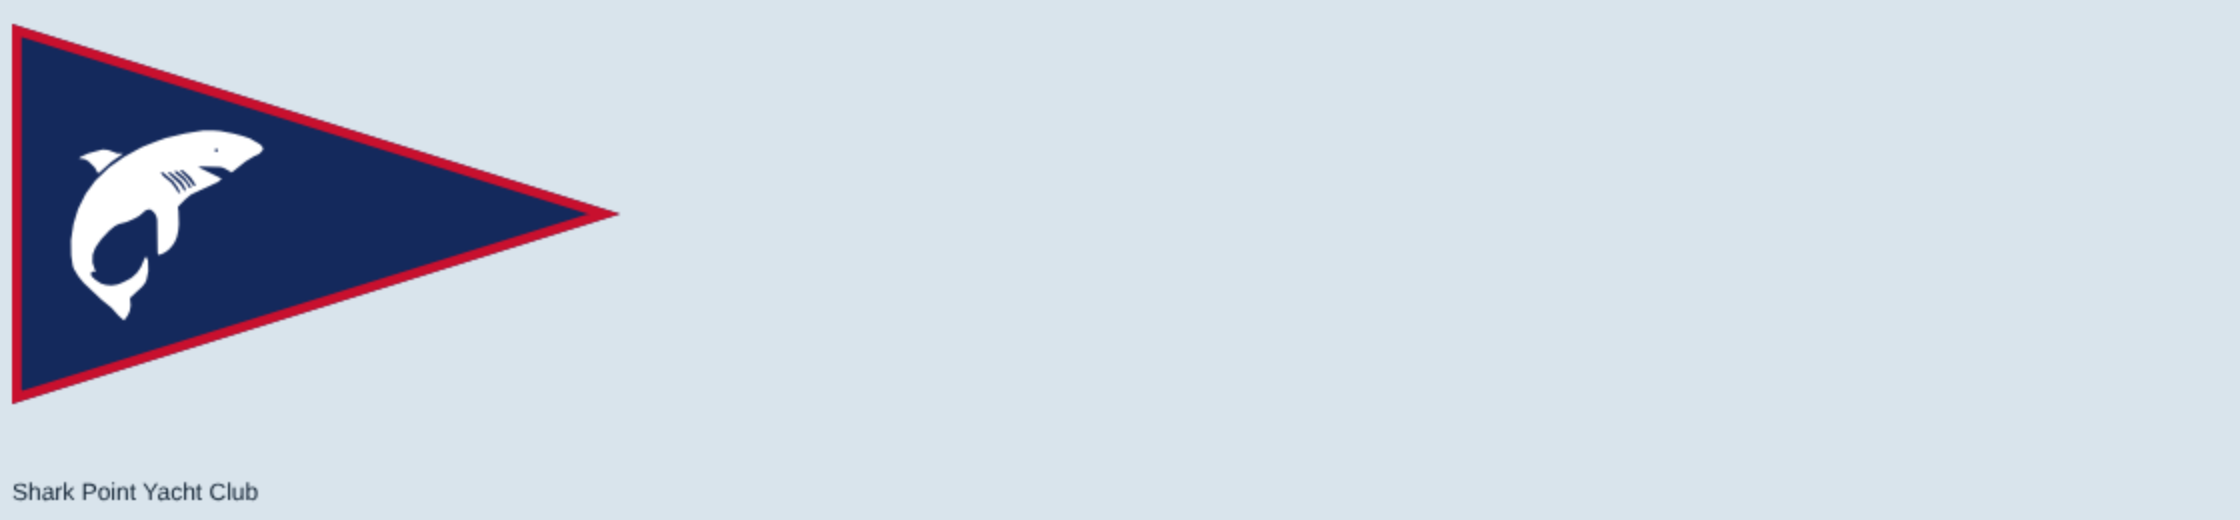
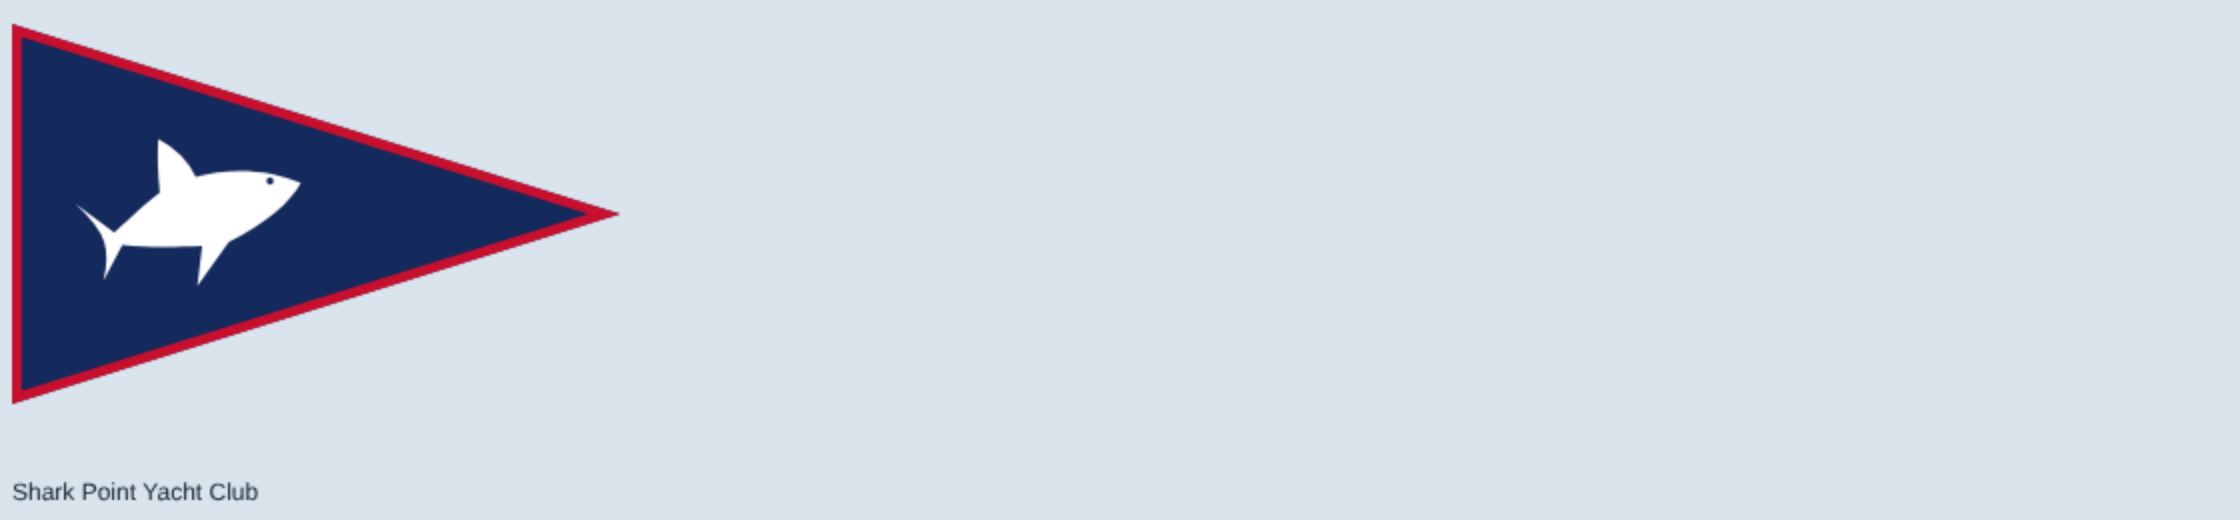
Burgees: Shark Point, a new shark drawn here instead of traced from the Tiburon seal
Claude-Session: https://claude.ai/code/session_012Uu5QjYRsEpBxuz7xgHWhs

Changed region(s): [[0.0312, 0.2462, 0.1562, 0.6154]]

diff --git a/src/render/burgeeArt.ts b/src/render/burgeeArt.ts
@@ -59,15 +59,19 @@ function bell(g: G, cx: number, cy: number, h: number, rot: number, c: string): 
   g.restore();
 }
 
-/** A shark, traced from the owner's reference image (unit points, shark height 1): the body, and the dorsal fin as its own piece; the eye, the gill slits and the mouth are holes, so the field shows through. */
-const SHARK_W = 1.01083;
-const SHARK: P[][][] = [
-  [[[0.6955, 0], [0.7497, 0], [0.7846, 0.0036], [0.8532, 0.0156], [0.9037, 0.0289], [0.9422, 0.0433], [0.9964, 0.0734], [1.0108, 0.0915], [1.0096, 0.1023], [0.9904, 0.1239], [0.9615, 0.1372], [0.9182, 0.1637], [0.846, 0.2214], [0.8051, 0.1974], [0.7858, 0.1925], [0.6871, 0.1901], [0.6691, 0.1937], [0.7918, 0.2539], [0.7918, 0.2563], [0.7738, 0.2708], [0.6318, 0.3381], [0.6005, 0.3634], [0.5644, 0.3995], [0.562, 0.4055], [0.5656, 0.4224], [0.568, 0.4934], [0.5644, 0.5295], [0.5572, 0.5608], [0.5463, 0.5872], [0.5319, 0.6089], [0.5126, 0.6294], [0.4934, 0.6438], [0.4789, 0.651], [0.4585, 0.6558], [0.4561, 0.6414], [0.4537, 0.4681], [0.4477, 0.4489], [0.4392, 0.4344], [0.426, 0.4212], [0.4176, 0.4176], [0.4055, 0.4164], [0.3923, 0.4212], [0.3586, 0.4513], [0.3345, 0.4645], [0.2936, 0.4813], [0.2527, 0.4934], [0.231, 0.5042], [0.2022, 0.5271], [0.16, 0.5716], [0.1288, 0.6161], [0.1143, 0.6534], [0.1131, 0.6943], [0.13, 0.7461], [0.1131, 0.7437], [0.1035, 0.7533], [0.1095, 0.7677], [0.13, 0.7882], [0.1576, 0.8051], [0.1841, 0.8135], [0.2142, 0.8159], [0.2455, 0.8111], [0.278, 0.799], [0.3177, 0.7762], [0.3466, 0.7497], [0.367, 0.7208], [0.3887, 0.6727], [0.3959, 0.6643], [0.4055, 0.6883], [0.4067, 0.7425], [0.3971, 0.7882], [0.3899, 0.8026], [0.3755, 0.8207], [0.3105, 0.8821], [0.3141, 0.9218], [0.3093, 0.9495], [0.2984, 0.9747], [0.2792, 1], [0.2491, 0.9747], [0.2142, 0.9338], [0.1625, 0.8917], [0.0674, 0.8026], [0.0373, 0.7653], [0.0156, 0.7304], [0.0096, 0.7124], [0.0012, 0.6582], [0, 0.58], [0.0132, 0.4922], [0.0373, 0.414], [0.0782, 0.3333], [0.1288, 0.2647], [0.1998, 0.1961], [0.278, 0.1396], [0.3742, 0.0878], [0.4477, 0.0578], [0.4994, 0.0409], [0.5993, 0.0156]], [[0.7629, 0.0963], [0.7665, 0.0963], [0.775, 0.1059], [0.7665, 0.1131], [0.7569, 0.1083], [0.7569, 0.1023]], [[0.58, 0.2094], [0.5848, 0.2094], [0.5981, 0.2178], [0.6306, 0.2491], [0.6546, 0.2852], [0.6546, 0.2888], [0.651, 0.2924], [0.6462, 0.2924], [0.6438, 0.29], [0.6101, 0.2467], [0.5752, 0.2142]], [[0.5511, 0.2118], [0.5692, 0.2238], [0.5981, 0.2491], [0.6306, 0.2936], [0.6318, 0.3008], [0.6294, 0.3032], [0.6245, 0.3032], [0.6173, 0.296], [0.6089, 0.2804], [0.5897, 0.2575], [0.5487, 0.225], [0.5475, 0.2154]], [[0.5187, 0.219], [0.5343, 0.2286], [0.5788, 0.2671], [0.5897, 0.2816], [0.6029, 0.3069], [0.6029, 0.3177], [0.5969, 0.3165], [0.5933, 0.3129], [0.586, 0.2996], [0.5728, 0.2828], [0.5138, 0.2274], [0.5126, 0.2226]], [[0.4765, 0.2214], [0.485, 0.2226], [0.5379, 0.2671], [0.5608, 0.2972], [0.5764, 0.3285], [0.568, 0.3285], [0.5644, 0.3261], [0.5475, 0.2996], [0.5271, 0.2732], [0.4886, 0.2419], [0.4741, 0.2274], [0.4729, 0.2238]]],
-  [[[0.1661, 0.1011], [0.1949, 0.1023], [0.2443, 0.1203], [0.272, 0.1215], [0.272, 0.1239], [0.2154, 0.1637], [0.1468, 0.2238], [0.1408, 0.2238], [0.1252, 0.1961], [0.0903, 0.1613], [0.0686, 0.1516], [0.0421, 0.1468], [0.0493, 0.1396], [0.089, 0.1215]]],
-];
-function shark(g: G, cx: number, cy: number, h: number, c: string): void {
-  g.save(); g.translate(cx - SHARK_W * h / 2, cy - h / 2); g.scale(h, h); g.fillStyle = c;
-  for (const rings of SHARK) { g.beginPath(); for (const ring of rings) { ring.forEach(([x, y], i) => (i ? g.lineTo(x, y) : g.moveTo(x, y))); g.closePath(); } g.fill('evenodd'); }
+/** A shark, drawn here (not traced from anyone's seal): a great white seen from the side, nose up to the right, length `len`
+ *  about the center (cx, cy). One bold white silhouette: blunt snout, high dorsal fin, one pectoral fin, a crescent tail. */
+function shark(g: G, cx: number, cy: number, len: number, c: string, eye: string): void {
+  g.save(); g.translate(cx, cy); g.rotate(-0.3); g.scale(len, len); g.translate(-0.46, 0); g.fillStyle = c;
+  g.beginPath(); g.moveTo(1.0, 0.01);
+  g.bezierCurveTo(0.88, -0.1, 0.68, -0.17, 0.52, -0.17);
+  g.quadraticCurveTo(0.5, -0.3, 0.4, -0.4); g.quadraticCurveTo(0.36, -0.3, 0.33, -0.15);
+  g.bezierCurveTo(0.2, -0.1, 0.11, -0.05, 0.06, -0.03);
+  g.lineTo(-0.08, -0.22); g.quadraticCurveTo(0.0, -0.08, 0.0, 0.0); g.quadraticCurveTo(0.0, 0.08, -0.06, 0.18);
+  g.lineTo(0.08, 0.04); g.bezierCurveTo(0.2, 0.09, 0.3, 0.12, 0.45, 0.16);
+  g.lineTo(0.37, 0.34); g.lineTo(0.58, 0.18);
+  g.bezierCurveTo(0.78, 0.15, 0.93, 0.08, 1.0, 0.01); g.closePath(); g.fill();
+  g.fillStyle = eye; g.beginPath(); g.arc(0.86, -0.045, 0.017, 0, Math.PI * 2); g.fill();
   g.restore();
 }
 
@@ -195,9 +199,9 @@ export const PARODY_BURGEES: Burgee[] = [
         for (let i = 0; i < 6; i++) { const a = (s > 0 ? 72 - i * 21 : 108 + i * 21) * d, grow = a + s * -Math.PI / 2, px = x + Math.cos(a) * r, py = y + Math.sin(a) * r, k = 1 - i * 0.07;
           for (const t of [-1, 1]) leaf(px, py, grow + t * 0.8, H * 0.085 * k, H * 0.028 * k); }
         const e = (s > 0 ? -34 : 214) * d; leaf(x + Math.cos(e) * r, y + Math.sin(e) * r, e + s * -Math.PI / 2, H * 0.07, H * 0.022); } } },
-  { id: 'tyc', shape: 'pennant', ratio: 1.6, // Shark Point (to flag for IP review: the layout is the real club's, the shark the Town of Tiburon seal's): navy field, a thin red border, one white shark at the hoist
+  { id: 'tyc', shape: 'pennant', ratio: 1.6, // Shark Point (to flag for IP review: the layout is the real club's; the shark is drawn here): navy field, a thin red border, one white shark at the hoist
     draw: (g, W, H) => { fill(g, W, H, '#14295c'); border(g, W, H, 'pennant', '#c8102e', 0.025);
-      shark(g, W * 0.255, H * 0.53, H * 0.5, WHITE); } },
+      shark(g, W * 0.3, H * 0.5, H * 0.54, WHITE, '#14295c'); } },
   { id: 'pyc', shape: 'pennant', ratio: 1.6, // Battery Yacht Club (the Army's old coast-defense post): a light-blue field and two white crossed cannon barrels toward the hoist
     draw: (g, W, H) => { fill(g, W, H, '#8fc4ea'); crossedGuns(g, W * 0.2, H * 0.5, H * 0.5, WHITE, '#8fc4ea'); } },
   { id: 'ssyc', shape: 'pennant', ratio: 1.7, // Willow Grove, traced from the owner's reference: stripes of one width leaning 0.56 across for each 1 down, pitch 0.27 of the length, the first teal stripe's right edge at 0.042 of the length along the top
